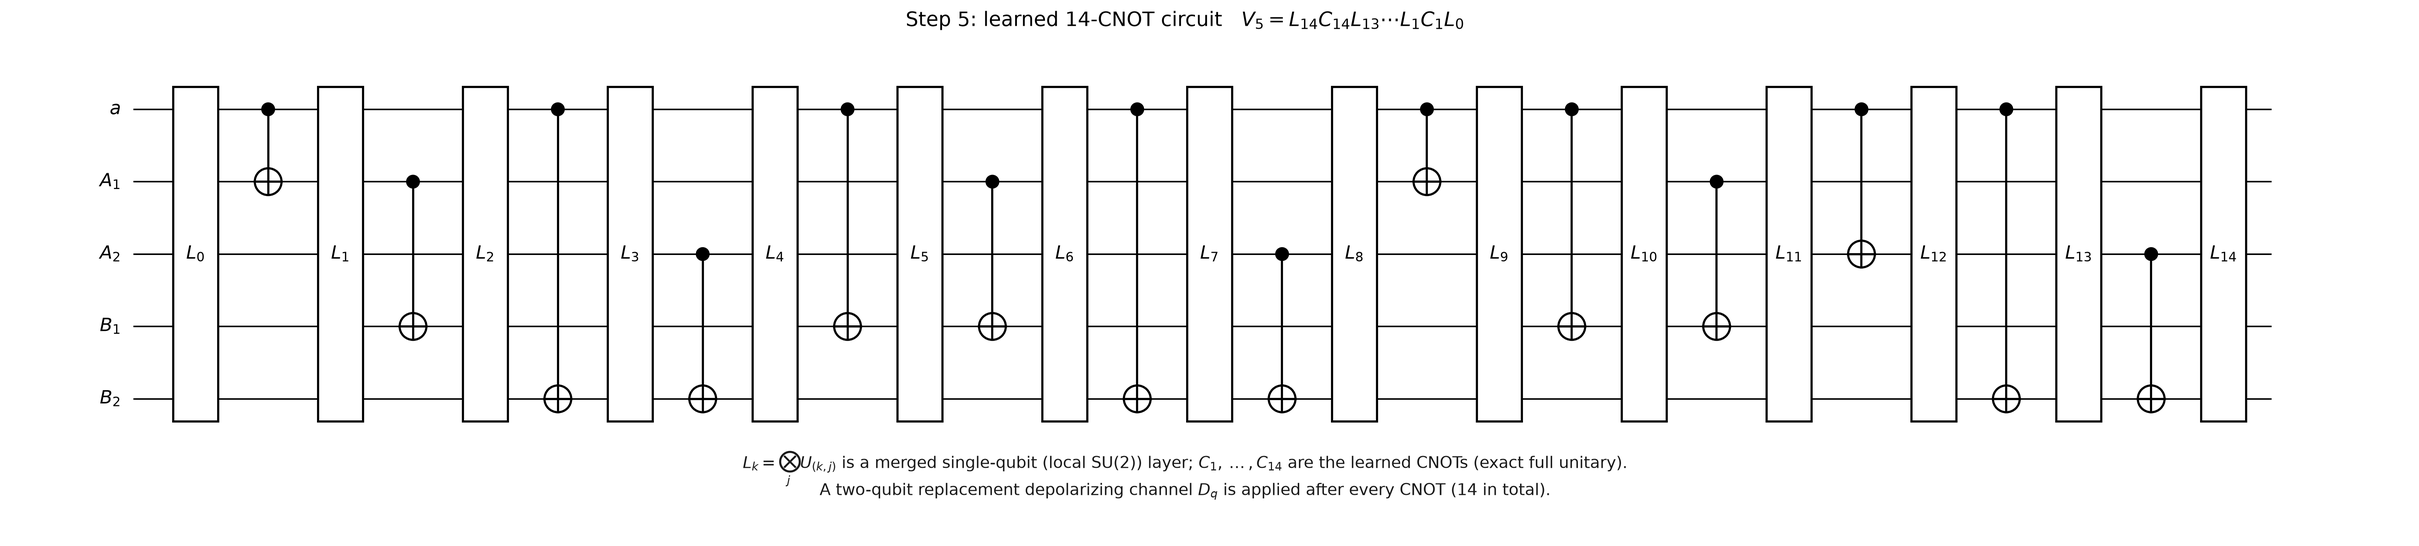
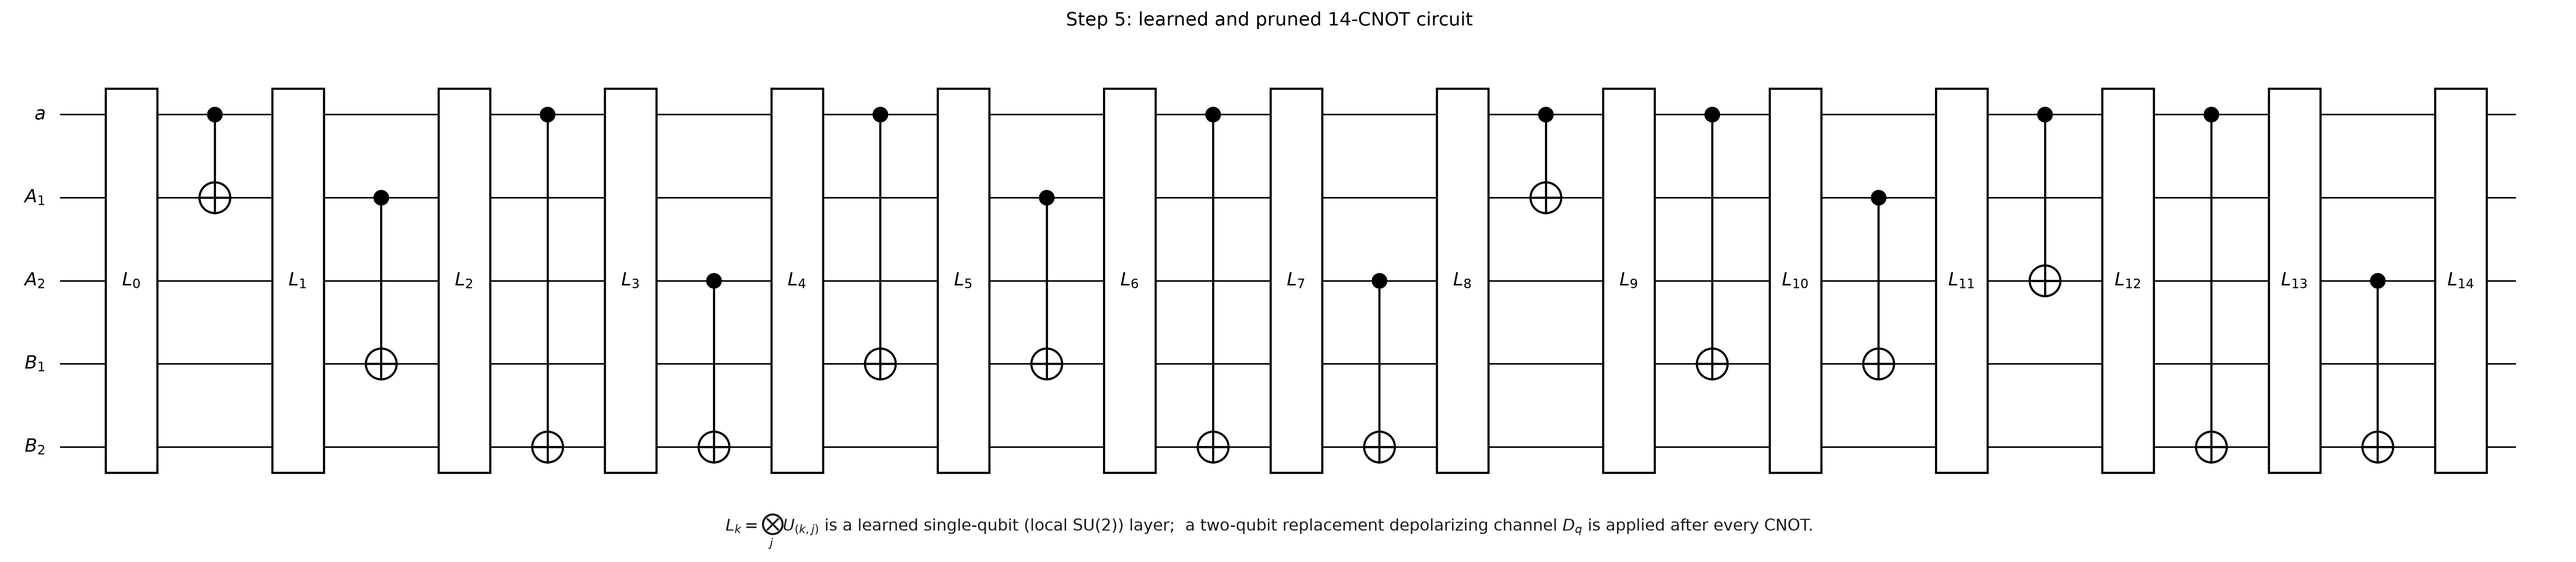
Add standalone Step 5 circuit + 3-step threshold comparison for the calc note
New scripts/generate_step5_standalone.py renders two caption-free paper figures:
 * figures/step5_learned_14cnot_circuit.png -- the learned & pruned 14-CNOT one-round
   PQEC circuit (single row) with learned single-qubit layers shown as merged local-SU(2)
   blocks L0..L14 (no numeric angles; none were provided). The 14 CNOTs are read from the
   saved pruning data and asserted equal to the given C1..C14 sequence; wire order
   (a,A1,A2,B1,B2). Regenerates the file in place with a clean standalone title/note.
 * figures/step5_threshold_comparison.png -- Step 3 / Step 4 / Step 5 operational-threshold
   comparison, three curves with distinct markers, using the supplied values verbatim:
   q3=[0.032991..0.125715], q4=[0.041263..0.178027], q5=[0.06017..0.33842].

White background, clean matplotlib style, tight bbox. No formula, threshold value, other
figure's data, code, or branch is changed.

diff --git a/scripts/generate_step5_standalone.py b/scripts/generate_step5_standalone.py
@@ -1,0 +1,171 @@
+"""
+Standalone Step 5 figures for the calculation note.
+===================================================
+
+(1) The learned & pruned 14-CNOT one-round PQEC circuit, single row, with the learned
+    single-qubit layers shown as merged local-SU(2) blocks L_0..L_14 (no numeric angles;
+    none were provided). The 14 CNOTs are taken from the saved pruning data
+    (pqc_ring_pruned.json + pqc_ring_pruned_params.npy) and asserted equal to the given
+    C1..C14 sequence before drawing.
+(2) A Step 3 / Step 4 / Step 5 operational-threshold comparison plot (three curves,
+    distinct markers), using the supplied values verbatim (no recomputation).
+
+Caption-free (small in-figure title only). White background, clean paper style.
+
+Outputs:
+  figures/step5_learned_14cnot_circuit.png   (standalone circuit)
+  figures/step5_threshold_comparison.png     (comparison graph)
+
+Run:  python scripts/generate_step5_standalone.py
+"""
+import os
+import sys
+import json
+import numpy as np
+import matplotlib
+matplotlib.use("Agg")
+import matplotlib.pyplot as plt
+from matplotlib.patches import Rectangle, Circle
+
+ROOT = os.path.dirname(os.path.dirname(os.path.abspath(__file__)))
+sys.path.insert(0, ROOT)
+
+from generate_paper_figures import (
+    _assign_columns, _y, WIRES5, DPI, COL_DX, BOX_W, BOX_H,
+    FS_GATE, FS_WIRE, FS_NOTE, LW,
+)
+import draw_pqc_5abc as d5
+
+FIG = os.path.join(ROOT, "figures")
+OUT_CIRCUIT = os.path.join(FIG, "step5_learned_14cnot_circuit.png")
+OUT_GRAPH = os.path.join(FIG, "step5_threshold_comparison.png")
+
+GIVEN = [(0, 1), (1, 3), (0, 4), (2, 4), (0, 3), (1, 3), (0, 4),
+         (2, 4), (0, 1), (0, 3), (1, 3), (0, 2), (0, 4), (2, 4)]
+
+TITLE = "Step 5: learned and pruned 14-CNOT circuit"
+NOTE = (r"$L_k=\bigotimes_j U_{(k,j)}$ is a learned single-qubit (local SU(2)) layer;"
+        r"  a two-qubit replacement depolarizing channel $D_q$ is applied after every CNOT.")
+
+
+# ---------------------------------------------------------------------------
+# (1) circuit
+# ---------------------------------------------------------------------------
+def _circuit_items():
+    mask = json.load(open(os.path.join(ROOT, "pqc_ring_pruned.json")))["mask"]
+    params = np.load(os.path.join(ROOT, "pqc_ring_pruned_params.npy"))
+    _, cnots = d5.merged_circuit(mask, params)
+    cnots = [(int(c), int(t)) for c, t in cnots]
+    assert cnots == GIVEN, "saved CNOT sequence does not match the given C1..C14"
+    items = [{"type": "full", "label": r"$L_{0}$"}]
+    for k, (c, t) in enumerate(cnots, start=1):
+        items.append({"type": "cnot", "ctrl": c, "targ": t})
+        items.append({"type": "full", "label": rf"$L_{{{k}}}$"})
+    return items, len(cnots), cnots
+
+
+def render_circuit(items, col_scale=1.0):
+    nw = len(WIRES5)
+    ncols = _assign_columns(items, nw)
+    dx = COL_DX * col_scale
+    x0 = 0.0
+
+    def cx(col):
+        return x0 + (col + 0.5) * dx
+
+    xL, xR = -0.35 * dx, ncols * dx + 0.15 * dx
+    fig, ax = plt.subplots(figsize=(max(6.0, 1.05 * (xR - xL) + 1.6), 0.95 * nw + 1.6))
+    ax.set_axis_off()
+    ax.patch.set_visible(False)
+
+    for r in range(nw):
+        y = _y(r, nw)
+        ax.plot([xL, xR], [y, y], color="k", lw=1.0, zorder=1)
+        ax.text(xL - 0.18 * dx, y, WIRES5[r], ha="right", va="center", fontsize=FS_WIRE)
+
+    ytop, ybot = _y(0, nw), _y(nw - 1, nw)
+    for it in items:
+        x = cx(it["col"])
+        if it["type"] == "full":
+            ax.add_patch(Rectangle((x - BOX_W / 2, ybot - BOX_H / 2), BOX_W,
+                         (ytop - ybot) + BOX_H, facecolor="white", edgecolor="k",
+                         lw=LW, zorder=3))
+            ax.text(x, (ytop + ybot) / 2, it["label"], ha="center", va="center",
+                    fontsize=FS_GATE + 1, zorder=4)
+        else:
+            yc, yt = _y(it["ctrl"], nw), _y(it["targ"], nw)
+            ax.plot([x, x], [yc, yt], color="k", lw=LW, zorder=2)
+            ax.add_patch(Circle((x, yc), 0.085, color="k", zorder=4))
+            ax.add_patch(Circle((x, yt), 0.185, facecolor="white", edgecolor="k",
+                         lw=LW, zorder=4))
+            ax.plot([x - 0.185, x + 0.185], [yt, yt], color="k", lw=LW, zorder=5)
+            ax.plot([x, x], [yt - 0.185, yt + 0.185], color="k", lw=LW, zorder=5)
+
+    ax.set_xlim(xL - 0.6 * dx, xR + 0.6 * dx)
+    ax.set_ylim(ybot - 1.25, ytop + 1.25)
+    ax.set_aspect("equal")
+
+    fig.canvas.draw()
+    rr = fig.canvas.get_renderer()
+    xs = []
+    for art in list(ax.lines) + list(ax.patches) + list(ax.texts):
+        try:
+            bb = art.get_window_extent(renderer=rr)
+            if bb.width > 0:
+                xs += [bb.x0, bb.x1]
+        except Exception:
+            pass
+    inv = ax.transData.inverted()
+    xc = (inv.transform((min(xs), 0))[0] + inv.transform((max(xs), 0))[0]) / 2 if xs \
+        else (xL + xR) / 2
+
+    ax.text(xc, ytop + 1.02, TITLE, ha="center", va="bottom", fontsize=FS_WIRE)
+    ax.text(xc, ybot - 0.80, NOTE, ha="center", va="top", fontsize=FS_NOTE, color="0.1")
+
+    fig.savefig(OUT_CIRCUIT, dpi=DPI, bbox_inches="tight", facecolor="white")
+    plt.close(fig)
+
+
+# ---------------------------------------------------------------------------
+# (2) threshold comparison (supplied values, verbatim)
+# ---------------------------------------------------------------------------
+EPS = [0.10, 0.20, 0.30, 0.40, 0.50, 0.60]
+Q3 = [0.032991, 0.061194, 0.084499, 0.102949, 0.116657, 0.125715]
+Q4 = [0.041263, 0.078817, 0.111911, 0.139861, 0.162075, 0.178027]
+Q5 = [0.0601704933, 0.1203148400, 0.1796666369,
+      0.2370689776, 0.2908096780, 0.3384184481]
+
+
+def render_graph():
+    fig, ax = plt.subplots(figsize=(6.4, 4.6), dpi=DPI)
+    ax.plot(EPS, Q3, "-^", color="C2", lw=1.9, ms=7, label="Step 3: textbook 16-CNOT")
+    ax.plot(EPS, Q4, "-o", color="C0", lw=1.9, ms=7, label="Step 4: resynthesized 14-CNOT")
+    ax.plot(EPS, Q5, "-s", color="C3", lw=1.9, ms=7, label="Step 5: learned 14-CNOT")
+    ax.set_xlabel(r"input noise  $\varepsilon$", fontsize=13)
+    ax.set_ylabel(r"CNOT-noise threshold  $q_{\mathrm{th}}$", fontsize=13)
+    ax.set_title("Operational threshold comparison", fontsize=14)
+    ax.grid(True, ls=":", lw=0.6, color="0.7")
+    ax.legend(frameon=False, fontsize=11, loc="upper left")
+    ax.set_xlim(0.08, 0.62)
+    ax.set_ylim(0.0, 0.36)
+    fig.savefig(OUT_GRAPH, dpi=DPI, bbox_inches="tight", facecolor="white")
+    plt.close(fig)
+
+
+def main():
+    items, ncx, seq = _circuit_items()
+    assert ncx == 14, f"Step 5 must have 14 CNOTs, got {ncx}"
+    render_circuit(items)
+    render_graph()
+
+    from PIL import Image
+    wc, hc = Image.open(OUT_CIRCUIT).size
+    wg, hg = Image.open(OUT_GRAPH).size
+    print(f"wrote {os.path.relpath(OUT_CIRCUIT, ROOT)}  ({wc}x{hc}px, {DPI} dpi)")
+    print(f"wrote {os.path.relpath(OUT_GRAPH, ROOT)}  ({wg}x{hg}px, {DPI} dpi)")
+    print(f"  circuit CNOT count = {ncx} (expect 14); sequence == given: {seq == GIVEN}")
+    print(f"  L layers L0..L14: {[f'L{i}' for i in range(15)]}")
+
+
+if __name__ == "__main__":
+    main()
